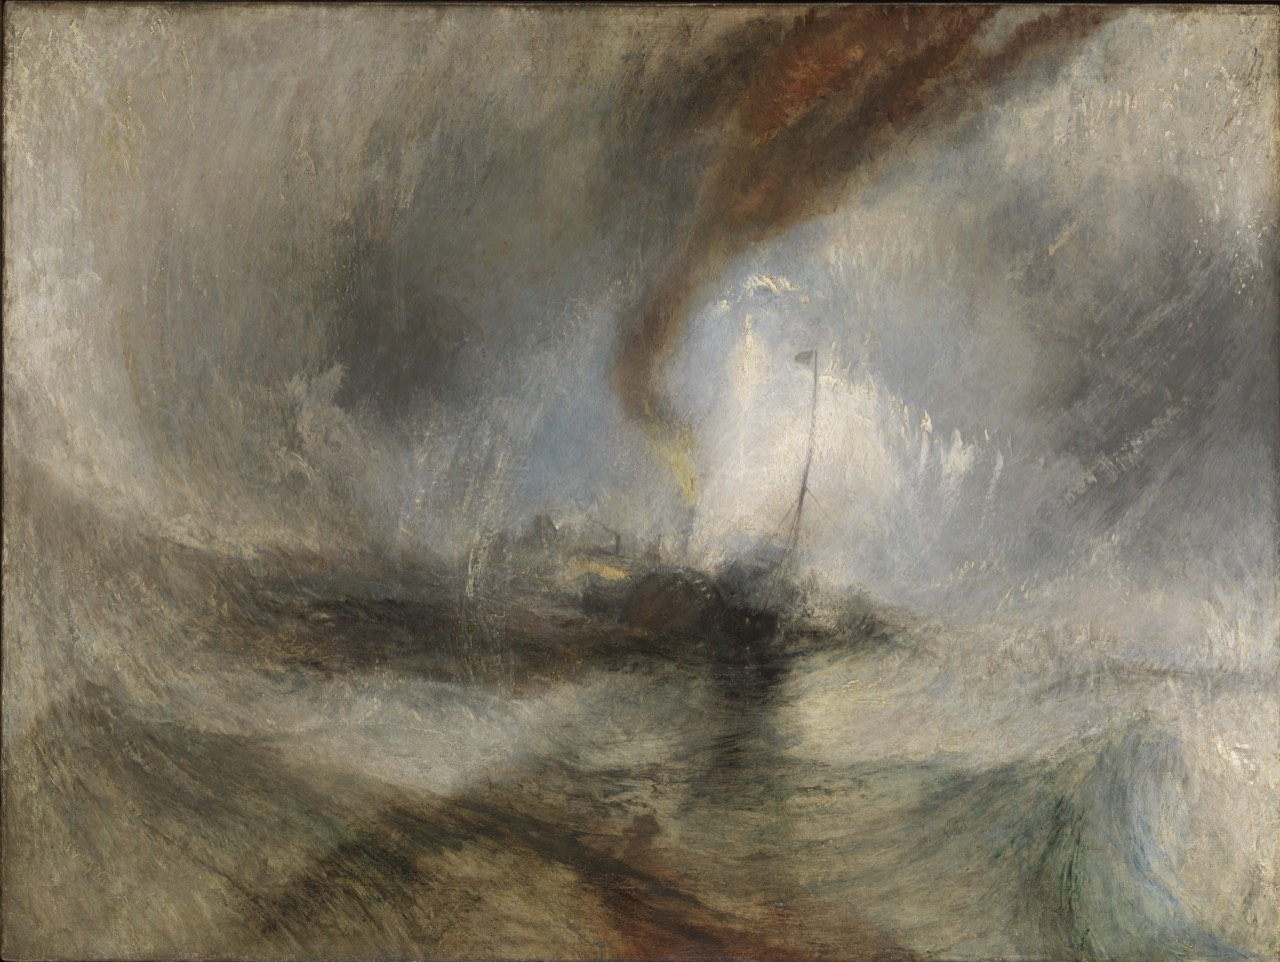
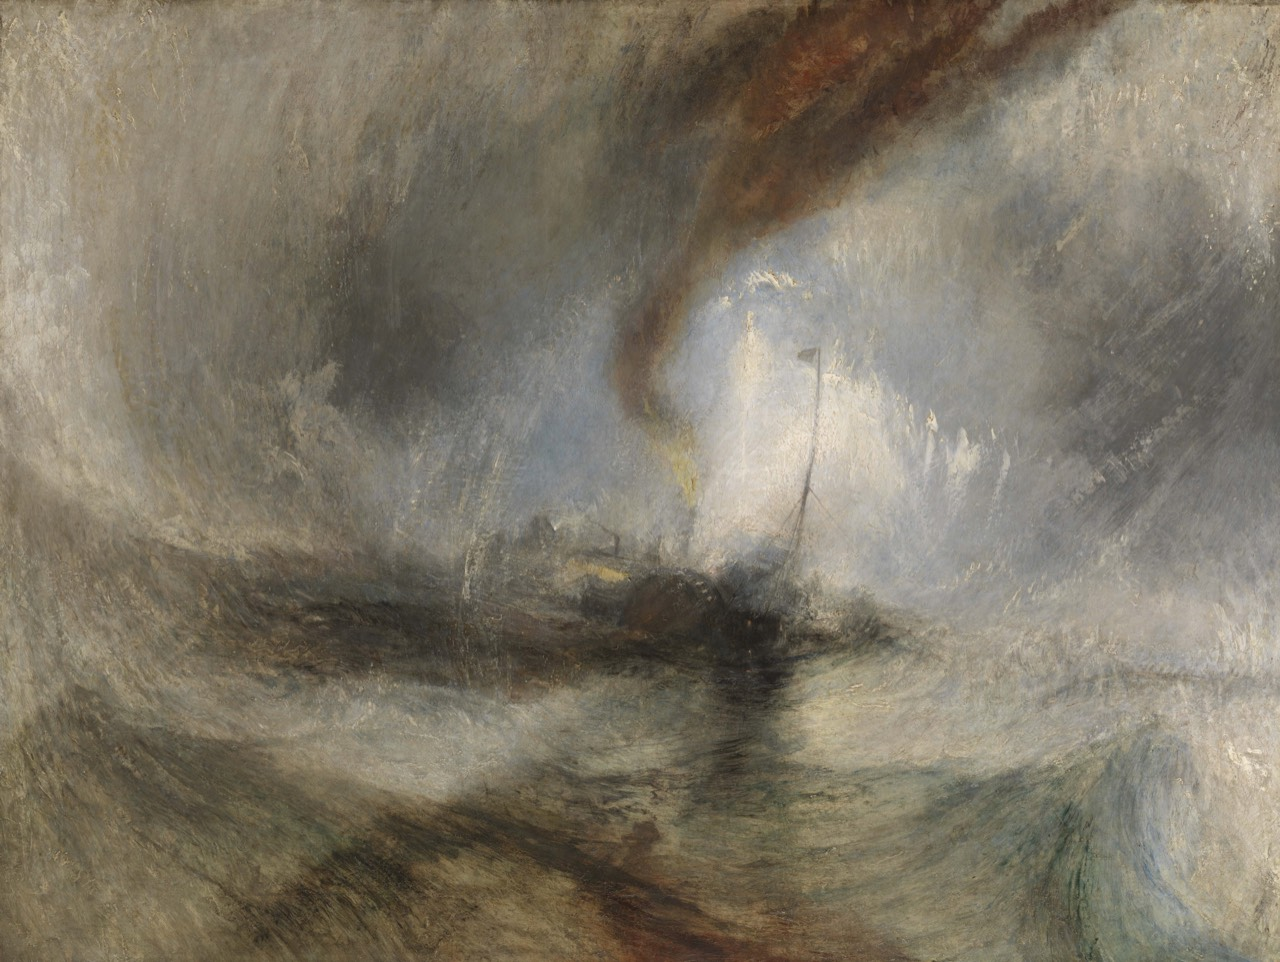
Trim Snow Storm wallpaper border

diff --git a/docs/BACKGROUNDS.md b/docs/BACKGROUNDS.md
@@ -1,10 +1,10 @@
 # Nine Turner wallpapers
 
-The distributed JPEG wallpapers have a maximum long edge of 5120 pixels, with no upscaling, permanent cropping, or artistic color adjustments. Original aspect ratios are preserved. Images already below the size limit are kept unchanged when recompression would increase their file size. The wallpapers total approximately 29.0 MiB; the 1280-pixel previews total approximately 2.2 MiB.
+The distributed JPEG wallpapers have a maximum long edge of 5120 pixels, with no upscaling or artistic color adjustments. Original aspect ratios are preserved to pixel rounding. Snow Storm has a centered trim of approximately 1% per edge to remove the dark outer border. Images already below the size limit are kept unchanged when recompression would increase their file size. The wallpapers total approximately 30.3 MiB; the 1280-pixel previews total approximately 2.2 MiB.
 
 **Rain, Steam and Speed** is first in the filename sequence and is the README cover. **Snow Storm** follows second, pairing rain and steam with a sea swept by snow. The collection alternates between turbulence and stillness: the Venetian view and **Dort** offer quiet harbors, while the storms dissolve ships and horizons into light and vapor. After the opening pair, luminous harbors alternate with darker seas and moonlight, ending with **The Fighting Temeraire** at sunset. The theme palette stays fixed when switching paintings. **Staffa**, **Keelmen**, and **The Fighting Temeraire** closely match its smoky blue shadows and gold accents. **Inverary Pier** is the airiest and most luminous alternative.
 
-All nine images support a 3840 × 2160 crop without upscaling. A centered 16:9 crop was visually reviewed: the main subjects remain visible, but approximately 15–25% of the painting's height is lost, including details near the edges. The distributed files therefore retain the full composition. Actual display and cropping depend on your wallpaper settings; ultrawide screens crop more. Appearance in a live Omarchy session has not been verified.
+All nine images support a 3840 × 2160 crop without upscaling. A centered 16:9 crop was visually reviewed: the main subjects remain visible, but approximately 15–25% of the painting's height is lost, including details near the edges. The distributed files retain the full composition apart from the slight border trim on Snow Storm. Actual display and cropping depend on your wallpaper settings; ultrawide screens crop more. Appearance in a live Omarchy session has not been verified.
 
 The NGA source images are distributed under [Open Access CC0](https://www.nga.gov/terms-and-notices). The other source reproductions are marked as public domain on their respective Commons pages, with sources from the National Gallery, Tate Britain, or Yale / Google Art Project. This project is not affiliated with the museums. Original downloads are linked below; the JSON catalog records their dimensions and checksums separately from the optimized files.
 
@@ -20,7 +20,7 @@ National Gallery, London.
 
 ## 02 · Snow Storm – Steam-Boat off a Harbour’s Mouth
 
-1842 · **Wallpaper: 5120 × 3849 px** · Original: 7247 × 5448 px.
+1842 · **Wallpaper: 5018 × 3772 px** · Original: 7247 × 5448 px.
 
 Tate Britain, London; Turner Bequest, 1856.
 

diff --git a/README.md b/README.md
@@ -4,7 +4,7 @@ A dark theme inspired by J. M. W. Turner: smoky blue, golden light, ivory, and t
 
 ![Turner theme on Omarchy with a terminal, btop, and Rain, Steam and Speed](preview.png)
 
-[Browse all nine wallpapers, with resolutions and sources](docs/BACKGROUNDS.md). Wallpapers range from 4096 to 5120 pixels wide, with original proportions and no upscaling; approximately 29.0 MiB in total. The gallery uses lightweight previews. Full-resolution originals remain available through the source links.
+[Browse all nine wallpapers, with resolutions and sources](docs/BACKGROUNDS.md). Wallpapers range from 4096 to 5120 pixels wide, with original proportions and no upscaling; approximately 30.3 MiB in total. The gallery uses lightweight previews. Full-resolution originals remain available through the source links.
 
 ## Inspiration
 
@@ -60,7 +60,7 @@ The theme uses the Omarchy 4 format. Omarchy generates application configuration
 - [Cover artwork source and original download](https://commons.wikimedia.org/wiki/File:Turner_-_Rain,_Steam_and_Speed_-_National_Gallery_file.jpg)
 - [National Gallery of Art Open Access policy](https://www.nga.gov/terms-and-notices)
 
-The two National Gallery of Art JPEGs are available under CC0. The other seven reproductions come from Wikimedia Commons, where they are marked as public domain. The distributed wallpapers are resized and JPEG-compressed where useful, without permanent cropping or artistic color adjustments. [The gallery](docs/BACKGROUNDS.md) lists the artist, collection, and source for each painting; [the JSON catalog](docs/backgrounds.json) records original download URLs, original and distributed dimensions and SHA-256 checksums, and processing details. Painting credits are separate from the theme's original palette.
+The two National Gallery of Art JPEGs are available under CC0. The other seven reproductions come from Wikimedia Commons, where they are marked as public domain. The distributed wallpapers are resized and JPEG-compressed where useful, without artistic color adjustments; Snow Storm has a slight border trim. [The gallery](docs/BACKGROUNDS.md) lists the artist, collection, and source for each painting; [the JSON catalog](docs/backgrounds.json) records original download URLs, original and distributed dimensions and SHA-256 checksums, and processing details. Painting credits are separate from the theme's original palette.
 
 ## License
 
